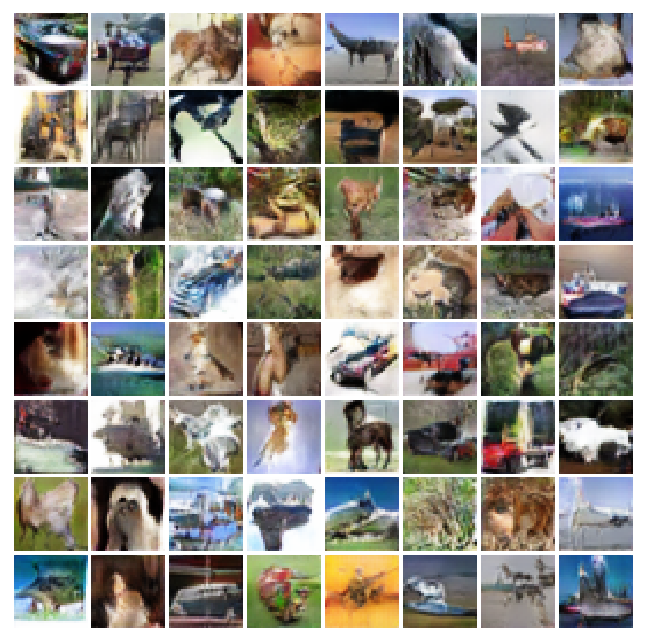
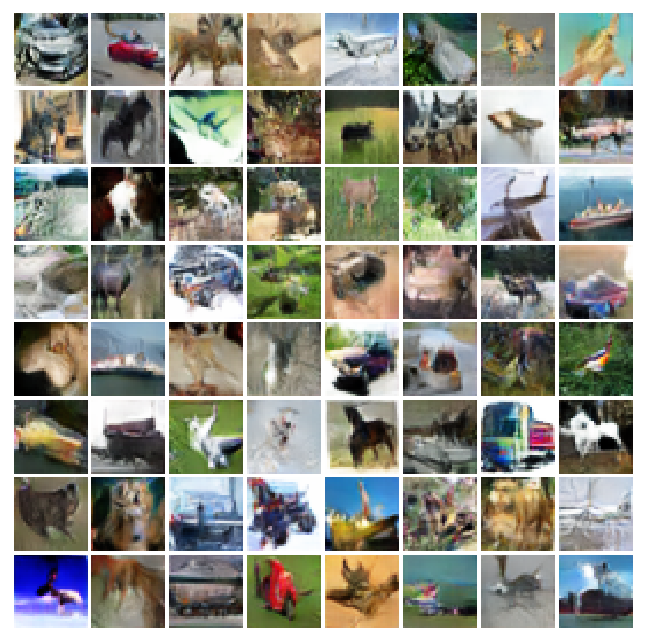
update cifar-10 samples for readme

diff --git a/README.md b/README.md
@@ -1,5 +1,5 @@
 # SN-GAN (spectral normalization GAN) in PyTorch
 Paper by (anonymous) https://openreview.net/forum?id=B1QRgziT-
 
-## CIFAR-10 Samples (41 epochs)
+## CIFAR-10 Samples
 ![with spectral normalization](https://github.com/christiancosgrove/pytorch-spectral-normalization-gan/blob/master/with_sn.png?raw=true)
